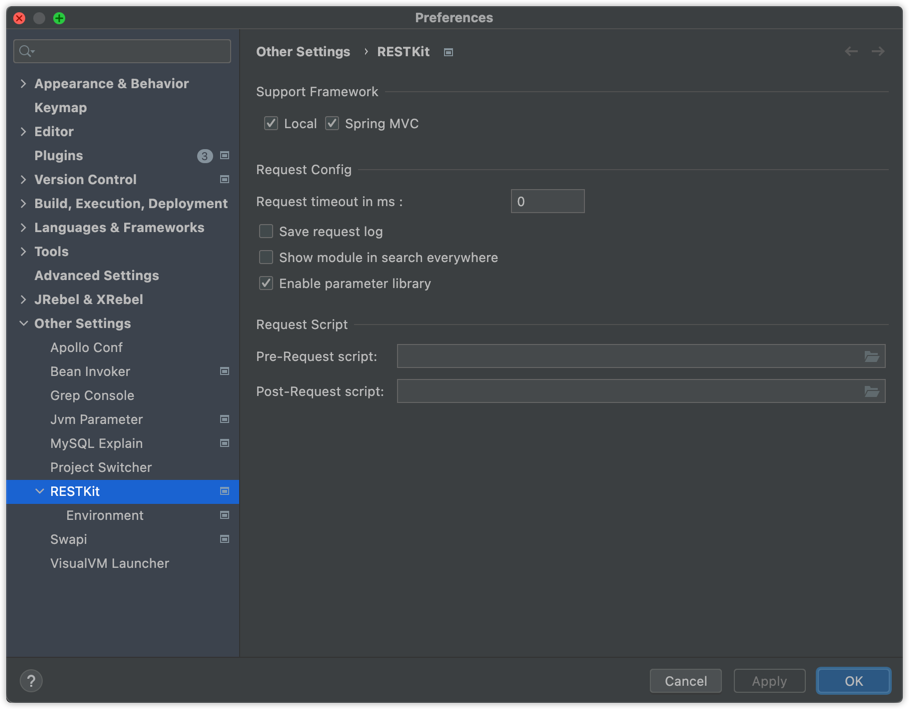
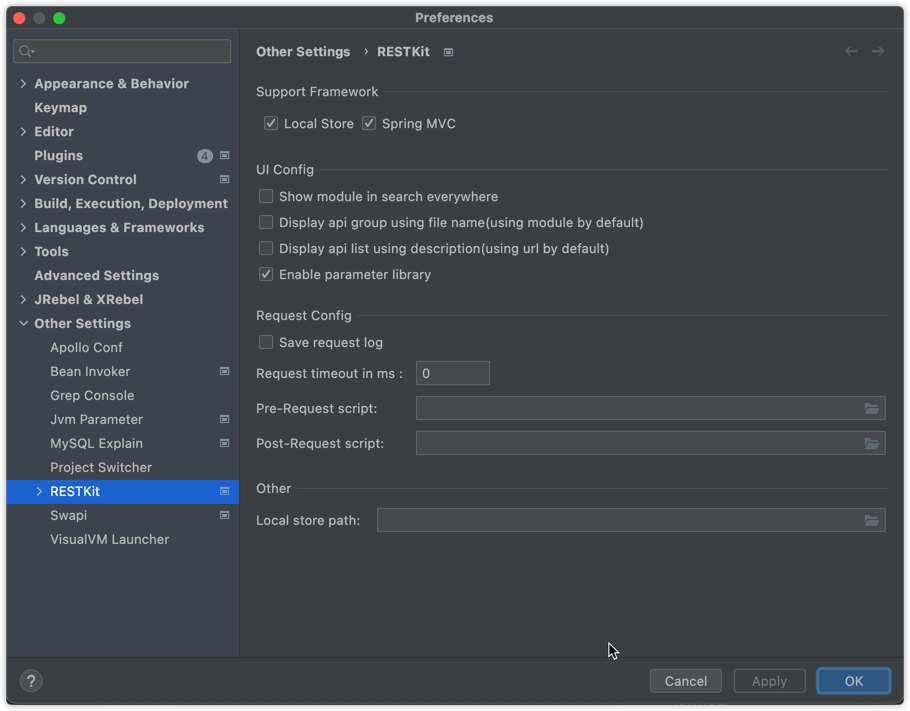
2.0.3 API groups support using file name

diff --git a/src/main/java/io/github/newhoo/restkit/toolwindow/RestServiceTree.java b/src/main/java/io/github/newhoo/restkit/toolwindow/RestServiceTree.java
@@ -223,29 +223,6 @@ public class RestServiceTree extends JPanel implements DataProvider {
                     if (consumer != null) {
                         consumer.consume(null);
                     }
-                    // 自动展开指定的路径
-                    /*else if (currentModulePath != null) {
-                        System.out.println("updateTree: " + currentModulePath);
-                        TreeUtil.expand(myTree, new TreeVisitor() {
-                            @Override
-                            @NotNull
-                            public Action visit(@NotNull TreePath path) {
-                                if (path.getParentPath() == null) {
-                                    return Action.CONTINUE;
-                                }
-                                if (path.getLastPathComponent().toString().equals(currentModulePath.getLastPathComponent().toString())) {
-                                    return Action.INTERRUPT;
-                                }
-                                if (path.getPathCount() == 2) {
-                                    return Action.SKIP_CHILDREN;
-                                }
-                                return Action.SKIP_SIBLINGS;
-                            }
-                        }, path -> {
-                            System.out.println("expand path: " + path);
-                            myTree.setSelectionPath(path);
-                        });
-                    }*/
                 });
             }
         });
@@ -346,7 +323,8 @@ public class RestServiceTree extends JPanel implements DataProvider {
     }
 
     public class RootNode extends BaseSimpleNode {
-        List<ModuleNode> moduleNodes = new ArrayList<>();
+        private final List<ModuleNode> moduleNodes = new ArrayList<>();
+        private int serviceCount = 0;
 
         protected RootNode() {
             super(null);
@@ -361,8 +339,6 @@ public class RestServiceTree extends JPanel implements DataProvider {
 
         @Override
         public String getName() {
-            List<Integer> list = moduleNodes.stream().map(moduleNode -> moduleNode.requestNodes.size()).collect(Collectors.toList());
-            int serviceCount = list.stream().mapToInt(i -> i).sum();
             return serviceCount > 0 ? String.format("Found %d services", serviceCount) : "No service found";
         }
 
@@ -373,6 +349,7 @@ public class RestServiceTree extends JPanel implements DataProvider {
                 ModuleNode moduleNode = new ModuleNode(this, restModule);
                 moduleNodes.add(moduleNode);
             }
+            serviceCount = restModules.stream().map(restModule -> restModule.getRestItems().size()).mapToInt(i -> i).sum();
 
             updateFrom(getParent());
             childrenChanged();

diff --git a/src/main/java/io/github/newhoo/restkit/restful/RequestHelper.java b/src/main/java/io/github/newhoo/restkit/restful/RequestHelper.java
@@ -1,9 +1,13 @@
 package io.github.newhoo.restkit.restful;
 
 import com.intellij.openapi.project.Project;
+import com.intellij.psi.PsiFile;
+import io.github.newhoo.restkit.common.PsiRestItem;
 import io.github.newhoo.restkit.common.RestItem;
+import io.github.newhoo.restkit.config.CommonSetting;
 import io.github.newhoo.restkit.config.CommonSettingComponent;
 import io.github.newhoo.restkit.restful.ep.RestfulResolverProvider;
+import io.github.newhoo.restkit.util.FileUtils;
 import org.jetbrains.annotations.NotNull;
 
 import java.util.Collection;
@@ -29,14 +33,24 @@ public class RequestHelper {
     }
 
     public static List<RestItem> buildRequestItemList(@NotNull Project project) {
+        CommonSetting commonSetting = CommonSettingComponent.getInstance(project).getState();
+        Set<String> enabledWebFrameworks = commonSetting.getEnabledWebFrameworks();
+        boolean displayApiGroupUsingFileName = commonSetting.isDisplayApiGroupUsingFileName();
         List<RequestResolver> requestResolvers = getRequestResolvers(project);
-        Set<String> enabledWebFrameworks = CommonSettingComponent.getInstance(project).getState().getEnabledWebFrameworks();
         return requestResolvers.stream()
                                .filter(requestResolver -> enabledWebFrameworks.contains(requestResolver.getFrameworkName()))
                                .map(resolver -> resolver.findRestItemInProject(project))
                                .filter(Objects::nonNull)
                                .flatMap(Collection::stream)
                                .filter(Objects::nonNull)
+                               .peek(item -> {
+                                   if (displayApiGroupUsingFileName && item instanceof PsiRestItem) {
+                                       PsiFile containingFile = ((PsiRestItem) item).getPsiElement().getContainingFile();
+                                       if (containingFile != null) {
+                                           item.setModuleName(FileUtils.removeFileSuffix(containingFile.getName()));
+                                       }
+                                   }
+                               })
                                .filter(item -> item.getModuleName() != null && item.getUrl() != null)
                                .collect(Collectors.toList());
     }

diff --git a/src/main/java/io/github/newhoo/restkit/feature/microservice/OpenInHttpUrlInlayAction.java b/src/main/java/io/github/newhoo/restkit/feature/microservice/OpenInHttpUrlInlayAction.java
@@ -9,8 +9,10 @@ import com.intellij.openapi.module.ModuleUtil;
 import com.intellij.openapi.project.Project;
 import com.intellij.psi.PsiFile;
 import io.github.newhoo.restkit.common.ToolkitIcons;
+import io.github.newhoo.restkit.config.CommonSettingComponent;
 import io.github.newhoo.restkit.i18n.RestBundle;
 import io.github.newhoo.restkit.toolwindow.RestToolWindowFactory;
+import io.github.newhoo.restkit.util.FileUtils;
 import org.jetbrains.annotations.NotNull;
 
 import javax.swing.*;
@@ -41,13 +43,22 @@ public class OpenInHttpUrlInlayAction implements UrlPathInlayAction {
         Project project = editor.getProject();
         // urlPathContext.getResolveRequests().iterator().next().getMethod()
         if (project != null) {
+            boolean usingFileName = CommonSettingComponent.getInstance(project).getState().isDisplayApiGroupUsingFileName();
             for (UrlResolveRequest urlResolveRequest : urlPathContext.getResolveRequests()) {
                 String presentation = urlResolveRequest.getPath().getPresentation();
                 String method = urlResolveRequest.getMethod();
-                Module module = ModuleUtil.findModuleForFile(psiFile);
-                System.out.println("UrlPathInlayAction: " + presentation + " -- " + method + " -- " + module);
+                String moduleName = null;
+                if (usingFileName) {
+                    moduleName = FileUtils.removeFileSuffix(psiFile.getName());
+                } else {
+                    Module module = ModuleUtil.findModuleForFile(psiFile);
+                    if (module != null) {
+                        moduleName = module.getName();
+                    }
+                }
+                String finalModuleName = moduleName;
                 RestToolWindowFactory.getRestServiceToolWindow(project, restServiceToolWindow -> {
-                    restServiceToolWindow.navigateToTree(presentation, method, module != null ? module.getName() : null);
+                    restServiceToolWindow.navigateToTree(presentation, method, finalModuleName);
                 });
                 break;
             }

diff --git a/src/main/java/io/github/newhoo/restkit/config/SettingForm.java b/src/main/java/io/github/newhoo/restkit/config/SettingForm.java
@@ -48,6 +48,7 @@ public class SettingForm {
 
     private JPanel uiConfigPanel;
     private JCheckBox showModuleCheckBox;
+    private JCheckBox displayApiGroupUsingFileNameCheckBox;
     private JCheckBox displayTreeListUsingApiDescCheckBox;
     private JCheckBox enableParameterLibraryCheckBox;
 
@@ -180,6 +181,7 @@ public class SettingForm {
 
         commonSetting.setDisplayTreeListUsingApiDesc(displayTreeListUsingApiDescCheckBox.isSelected());
         commonSetting.setShowModuleInSearchEvery(showModuleCheckBox.isSelected());
+        commonSetting.setDisplayApiGroupUsingFileName(displayApiGroupUsingFileNameCheckBox.isSelected());
         commonSetting.setEnableParameterLibrary(enableParameterLibraryCheckBox.isSelected());
 
         commonSetting.setSaveRequestLog(saveRequestLogCheckBox.isSelected());
@@ -201,6 +203,7 @@ public class SettingForm {
 
         displayTreeListUsingApiDescCheckBox.setSelected(commonSetting.isDisplayTreeListUsingApiDesc());
         showModuleCheckBox.setSelected(commonSetting.isShowModuleInSearchEvery());
+        displayApiGroupUsingFileNameCheckBox.setSelected(commonSetting.isDisplayApiGroupUsingFileName());
         enableParameterLibraryCheckBox.setSelected(commonSetting.isEnableParameterLibrary());
         enableParameterLibraryCheckBox.setText("Enable parameter library");
 

diff --git a/src/main/java/io/github/newhoo/restkit/config/CommonSetting.java b/src/main/java/io/github/newhoo/restkit/config/CommonSetting.java
@@ -28,6 +28,7 @@ public class CommonSetting {
 
     private boolean saveRequestLog = false;
     private boolean showModuleInSearchEvery = false;
+    private boolean displayApiGroupUsingFileName = false;
     private boolean displayTreeListUsingApiDesc = false;
     private boolean enableParameterLibrary = true;
     private String preRequestScriptPath = "";
@@ -38,6 +39,7 @@ public class CommonSetting {
         return requestTimeout != modifiedSetting.getRequestTimeout()
                 || saveRequestLog != modifiedSetting.isSaveRequestLog()
                 || showModuleInSearchEvery != modifiedSetting.isShowModuleInSearchEvery()
+                || displayApiGroupUsingFileName != modifiedSetting.isDisplayApiGroupUsingFileName()
                 || displayTreeListUsingApiDesc != modifiedSetting.isDisplayTreeListUsingApiDesc()
                 || enableParameterLibrary != modifiedSetting.isEnableParameterLibrary()
                 || !StringUtils.equals(preRequestScriptPath, modifiedSetting.getPreRequestScriptPath())

diff --git a/src/main/java/io/github/newhoo/restkit/feature/javaimpl/language/BaseLanguageResolver.java b/src/main/java/io/github/newhoo/restkit/feature/javaimpl/language/BaseLanguageResolver.java
@@ -189,8 +189,7 @@ public abstract class BaseLanguageResolver extends BaseRequestResolver implement
                     || "javax.servlet.http.HttpServletRequest".equals(paramTypeName)
                     || "javax.servlet.http.HttpServletResponse".equals(paramTypeName)
                     || "org.springframework.web.context.request.ServletWebRequest".equals(paramTypeName)
-                    // TODO huzunrong，2021/11/25 11:38 下午 [自定义忽略类型解析]
-                    || psiParameter.hasAnnotation("com.example.parking.common.annotation.CurrentUser")
+                    // TODO [自定义忽略类型解析]
             ) {
                 continue;
             }

diff --git a/src/main/java/io/github/newhoo/restkit/util/FileUtils.java b/src/main/java/io/github/newhoo/restkit/util/FileUtils.java
@@ -70,6 +70,16 @@ public class FileUtils {
         }
     }
 
+    public static String removeFileSuffix(String fileName) {
+        if (StringUtils.isNotEmpty(fileName)) {
+            int index = fileName.lastIndexOf(".");
+            if (index > 0) {
+                return fileName.substring(0, index);
+            }
+        }
+        return fileName;
+    }
+
     private static void log(String content, Project project) {
         String basePath = getRestDirectory(project) + "logs/";
         IdeaUtils.invokeLater(() -> {

diff --git a/README.md b/README.md
@@ -1,6 +1,6 @@
 # RESTKit
 
-[简体中文](./README.zh_CN.md)
+[简体中文](./README.zh_CN.md) | [Gitee](https://gitee.com/newhoo/RESTKit)
 
 [RESTKit](https://plugins.jetbrains.com/plugin/14723-restkit) is a powerful toolkit for restful services development.
 
@@ -100,16 +100,21 @@ Provide some common settings for the plugin.
 #### Supported Web Framework
 support Spring MVC and enabled by default. If you need support other framework restful apis, please see [RESTKit Extension](#Plugin Extension)
 
-#### Request Config
-- Timeout: set request timeout. Never timeout when the value less than or equal 0.
-- Enable request log: default disabled. Log path `$PROJECT_DIR$/.idea/restkit/logs/*.log`.
+#### UI Config
 - Show module name in search everywhere
+- Display api group using file name(using module by default)
+- Display api list using description(using url by default)
 - Enable parameter library: default enabled. Need reopen current project after setting.
 
-#### Request Script
-Set pre-request and post-request script path. If path is empty, you can double click `Label` before the input box to generate script like `$PROJECT_DIR$/.idea/restkit/xxx-request Script.js`.
+#### Request Config
+- Enable request log: default disabled. Log path `$PROJECT_DIR$/.idea/restkit/logs/*.log`.
+- Timeout: set request timeout. Never timeout when the value less than or equal 0.
+- Script config: set pre-request and post-request script path. If path is empty, you can double click `Label` before the input box to generate script like `$PROJECT_DIR$/.idea/restkit/xxx-request Script.js`.
 
 ![](images/script_setting.png)
+
+#### Other Config
+- Local store path: api local storage file path.
 
 ### Environment Variable
 - Environment variables indicate multi-set variables in advance, including `Literal Variable`, `Direct reference variable`, `Built-in function variable` and `Script variable`.
@@ -178,6 +183,7 @@ Configure request headers that add to the HTTP request by default in current pro
 - API Local Store used for manually saving API, an interface independently scanned. It's displayed as a Local module in Service Tree.
 - Every api should have unique key composed of url and method.
 - Enable by default. Disable in the setting.
+- Support synchronization in different IDE/project when setting same file path.
 
 #### Display
 ![](images/local_show.png)
@@ -251,6 +257,7 @@ Refer to this article: `Common Setting` > `Request Script`
 - Instruction:
 ```js
 // You can use custom preset object request and environment, attributes are:
+//
 // request attributes
 // url:         java.lang.String,               request url, can be modified by pre-request script.
 // method:      java.lang.String,               request method, can be modified by pre-request script.
@@ -293,7 +300,10 @@ req.body = JSON.stringify({ reqBody: 'Hello world!' });
 
 - Instruction:
 ```js
-// You can use custom preset object response and environment, attributes are:
+// You can use custom preset object request、response and environment, attributes are:
+//
+// request: see pre-request script comment
+//
 // response attributes
 // original:    org.apache.http.HttpResponse,   original http response, from http-client 4.4.
 // body:        java.lang.String,               response body can be modified by post-request script.
@@ -309,6 +319,7 @@ var env = environment;
 var baseUrl = env.baseUrl;
 var username = env['username'];
 
+var req = request;
 var resp = response;
 var statusCode = resp.original.getStatusLine().getStatusCode();
 
@@ -406,6 +417,11 @@ After right-click on the java class name, select `Convert to JSON` in the contex
 Click【Copy as Curl】at any editor's right menu in the http client.
 
 ![](images/copy_as_curl.png)
+
+#### Quick Tools
+Path: <kbd>Tools</kbd> > <kbd>RESTKit</kbd>
+
+![](images/tools.png)
 
 ## Contact & Feedback
 [Issues](https://github.com/newhoo/RESTKit/issues) | [Email](mailto:huzunrong@foxmail.com) | [Ratings & Previews](https://plugins.jetbrains.com/plugin/14723-restkit/reviews)

diff --git a/README.zh_CN.md b/README.zh_CN.md
@@ -1,5 +1,7 @@
 # RESTKit
 
+[英文](./README.md) | [Gitee](https://gitee.com/newhoo/RESTKit)
+
 [RESTKit](https://plugins.jetbrains.com/plugin/14723-restkit) 是一套功能强大的 Restful 服务开发辅助工具集。
 
 本插件致力于提升开发效率之作，只有实用常用的功能。源于最初版本的RestfulToolkit，同时加入Postman的常用功能，丰富且完善的功能能极大地提高Idea开发的效率。免费分享给大家使用，不用于商业用途。个人之力，难免有疏忽，如有使用问题，请反馈于我。
@@ -94,16 +96,21 @@
 #### 支持扫描的Web框架
 默认支持Spring MVC，勾选即启用。若需要支持其他web框架的restful接口扫描，请参考：[插件扩展](#插件扩展)
 
+#### UI配置
+- 在search everywhere中展示URL的module名称
+- 使用接口所在文件名作为分组名，默认使用模块名
+- 使用接口描述作为接口名称，默认使用URI
+- 启用参数库：默认启用。设置后需重新打开当前项目
+
 #### 请求配置
 - 请求超时：设置请求超时时长，设置时长小于等于0时不超时
 - 启用保存请求日志：默认不启用，保存路径为 `$PROJECT_DIR$/.idea/restkit/logs/*.log`
-- 在search everywhere中展示URL的module名称
-- 启用参数库：默认启用。设置后需重新打开当前项目
-
-#### 请求脚本
-设置前置/后置请求脚本路径。当输入框为空时，可双击`Label`自动生成脚本，默认生成路径为：`$PROJECT_DIR$/.idea/restkit/xxx-request Script.js`
+- 请求脚本：设置前置/后置请求脚本路径。当输入框为空时，可双击`Label`自动生成脚本，默认生成路径为：`$PROJECT_DIR$/.idea/restkit/xxx-request Script.js`
 
 ![](images/script_setting.png)
+
+#### 其他配置
+- 本地API存储路径
 
 ### 环境变量
 - 环境变量表示提前配置的一组或多组变量，包括`字面量变量`、`直接引用变量`、`内置函数变量`和`脚本变量`。
@@ -167,9 +174,10 @@ public class RestKitScript {
 
 
 ### 本地API库
-- 本地API库适用于手动保存API，独立于源码扫描出的接口，在service tree中展示为Local分组。
+- 本地API库适用于手动保存API，独立于源码扫描出的接口，在service tree中默认展示为Local分组。
 - 根据url和method组合值作为唯一性判断
-- 默认启用，可在设置中关闭。
+- 默认启用，可在设置中关闭
+- 支持跨IDE/项目同步（不同IDE/项目设置为本地同一文件）
 
 #### 展示
 ![](images/local_show.png)
@@ -243,6 +251,7 @@ public class RestKitScript {
 - 使用说明：
 ```js
 // You can use custom preset object request and environment, attributes are:
+//
 // request attributes
 // url:         java.lang.String,               request url, can be modified by pre-request script.
 // method:      java.lang.String,               request method, can be modified by pre-request script.
@@ -285,7 +294,10 @@ req.body = JSON.stringify({ reqBody: 'Hello world!' });
 
 - 使用说明：
 ```js
-// You can use custom preset object response and environment, attributes are:
+// You can use custom preset object request、response and environment, attributes are:
+//
+// request: see pre-request script comment
+//
 // response attributes
 // original:    org.apache.http.HttpResponse,   original http response, from http-client 4.4.
 // body:        java.lang.String,               response body can be modified by post-request script.
@@ -301,6 +313,7 @@ var env = environment;
 var baseUrl = env.baseUrl;
 var username = env['username'];
 
+var req = request;
 var resp = response;
 var statusCode = resp.original.getStatusLine().getStatusCode();
 
@@ -397,6 +410,11 @@ Url navigate to service tree.
 在http client任意编辑区右键菜单中点击【Copy as Curl】
 
 ![](images/copy_as_curl.png)
+
+#### 快捷工具
+路径：<kbd>Tools</kbd> > <kbd>RESTKit</kbd>
+
+![](images/tools.png)
 
 
 ## 联系 & 反馈

diff --git a/CHANGELOG.md b/CHANGELOG.md
@@ -1,5 +1,12 @@
 # CHANGELOG
 
+## 2.0.3
+
+- support api group by file name.
+
+
+- 扫描的API支持按文件名显示分组
+
 ## 2.0.2
 
 - more powerful api local store, support synchronization in different IDE.
